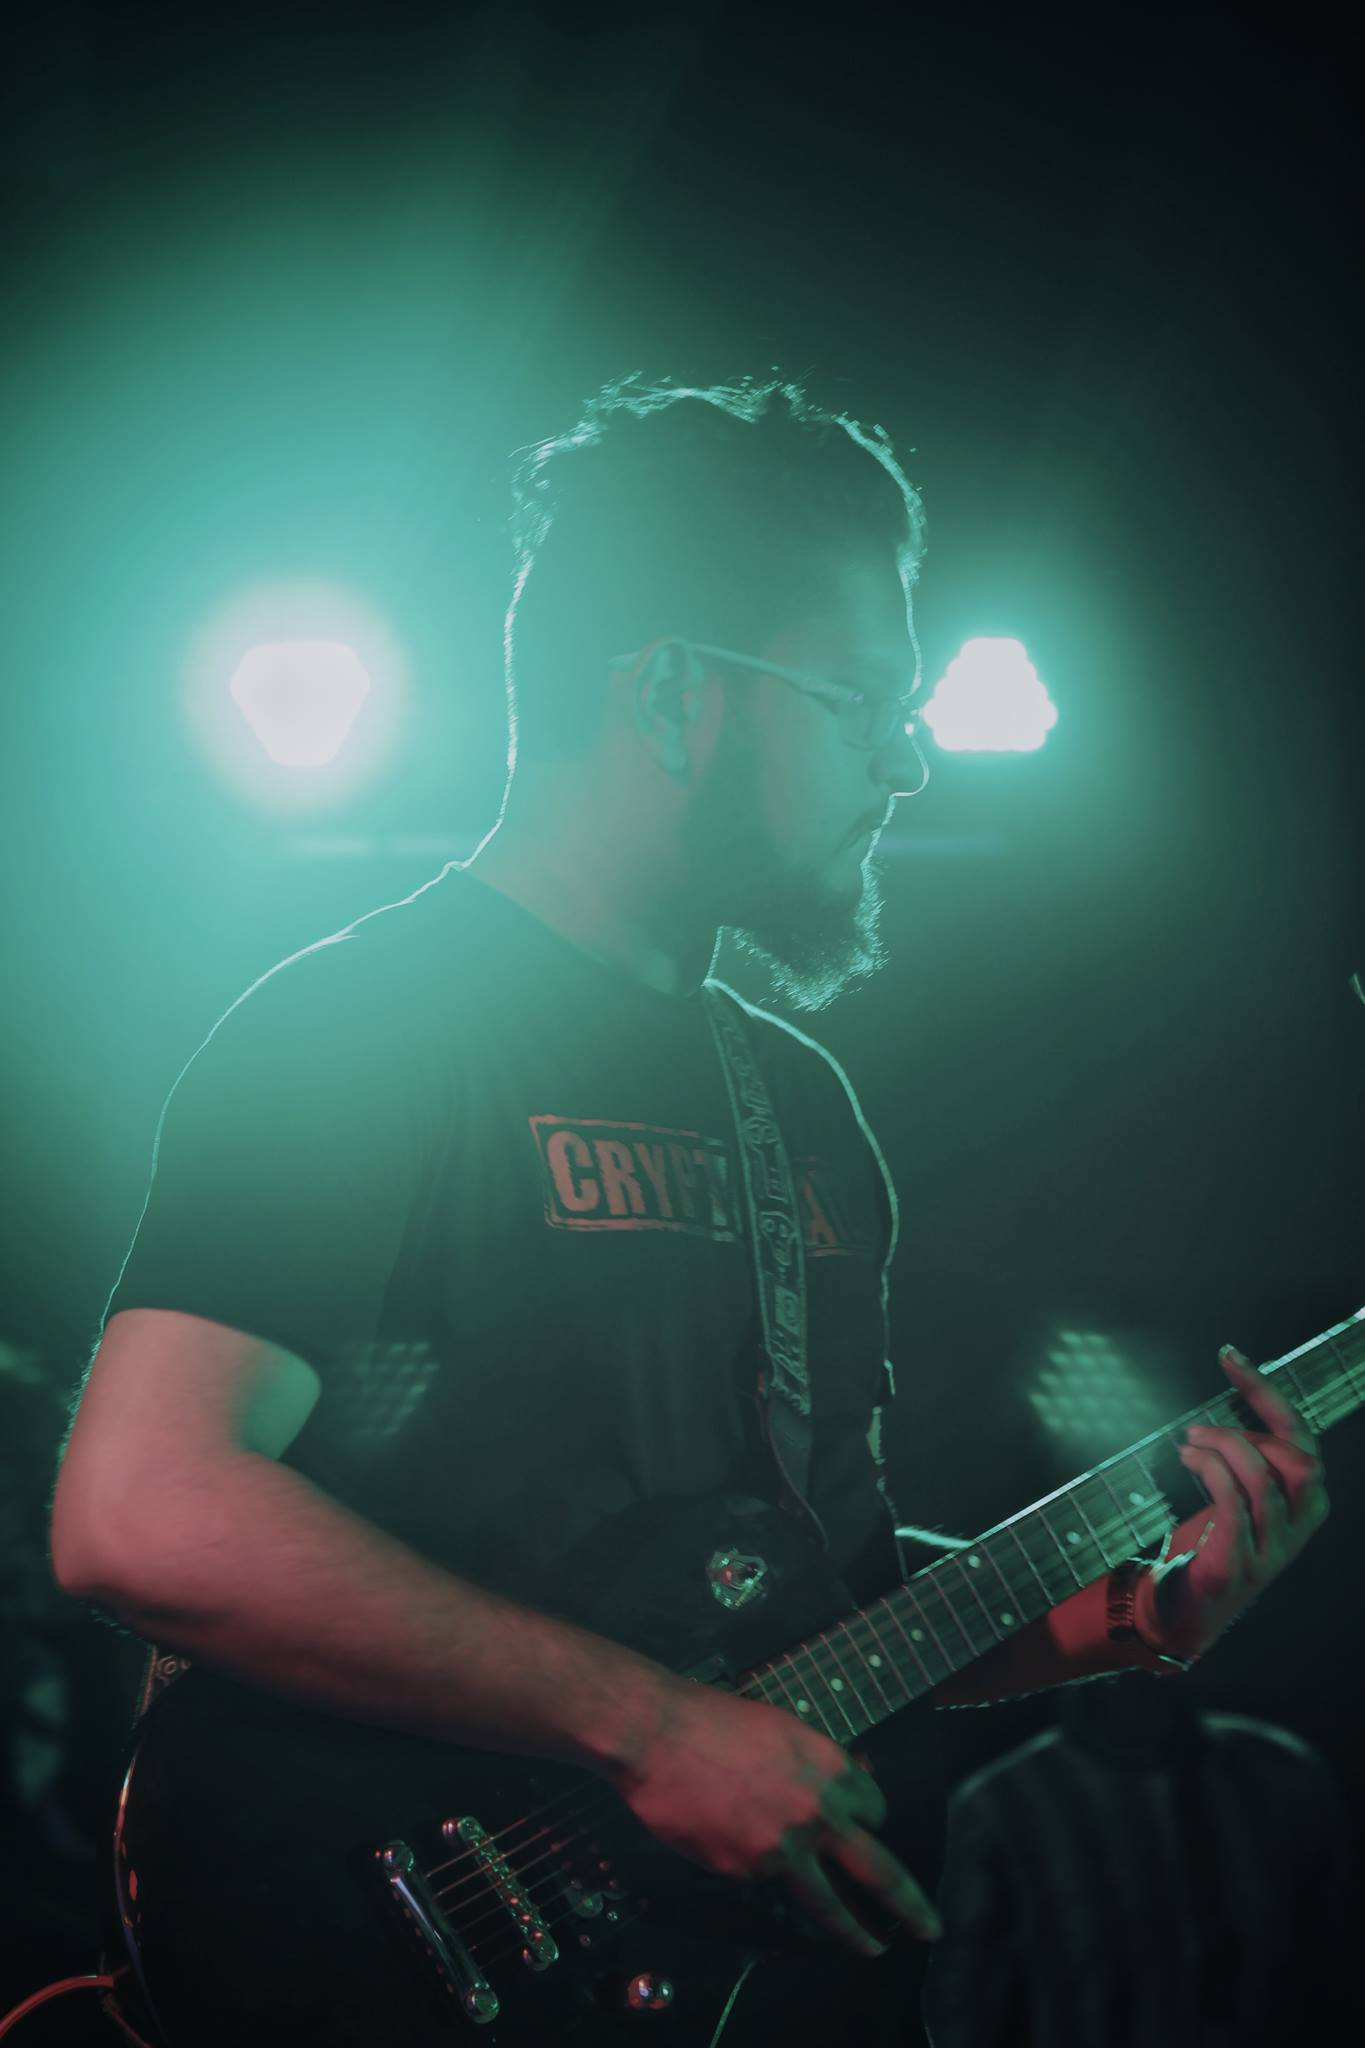
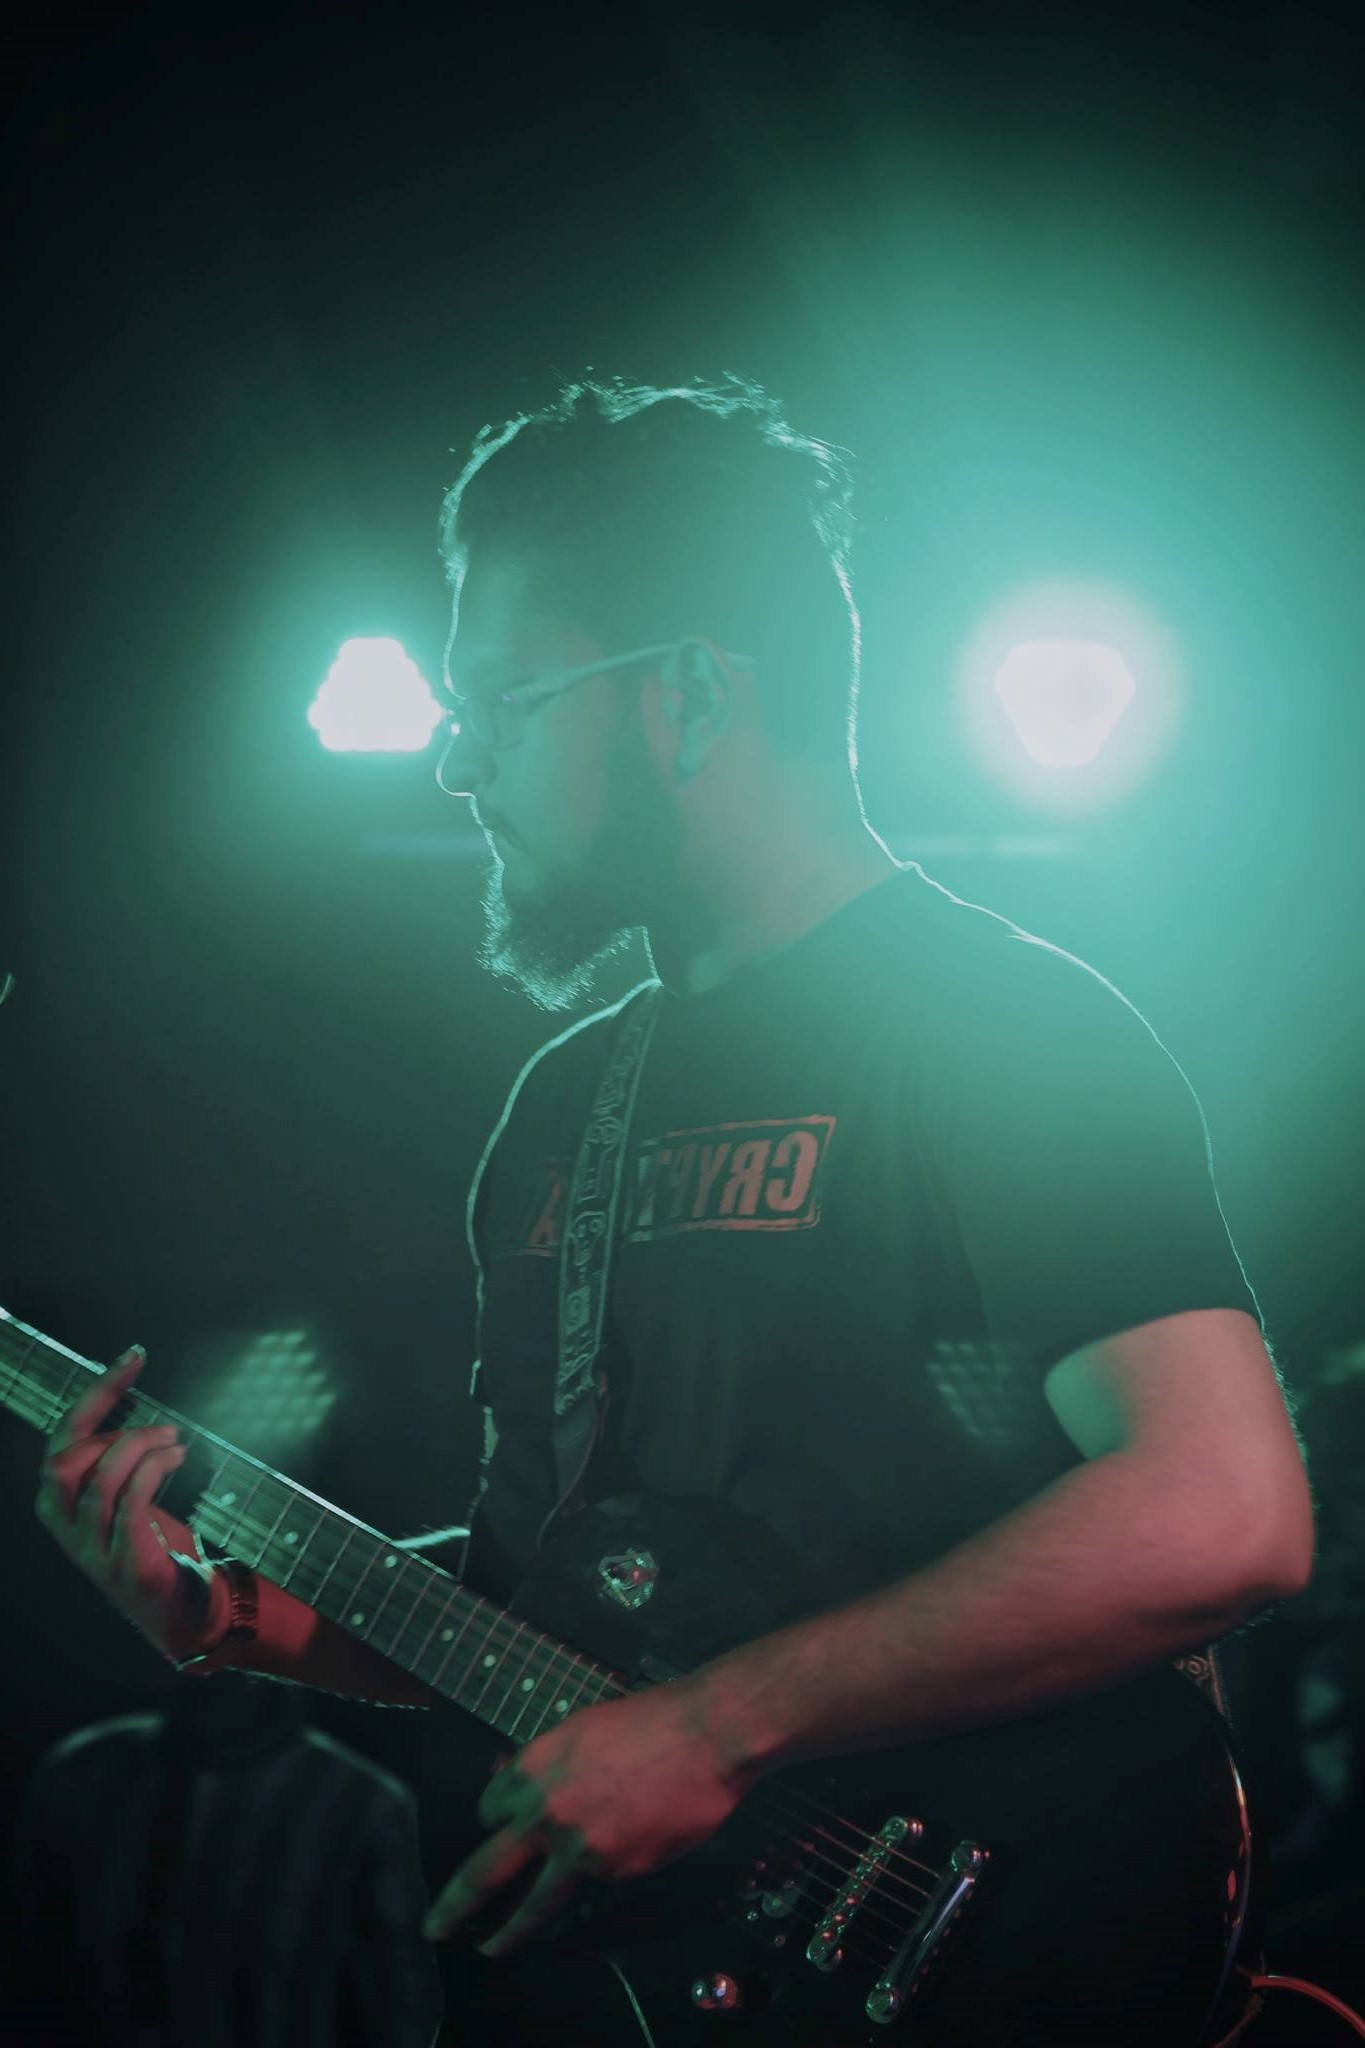
mod4

diff --git a/style.css b/style.css
@@ -21,8 +21,9 @@ body{
     background-color:rgb(12, 12, 12)
 }
 img{
-    height: 800px;
-    width:800px ;
+    height:900px;
+    width: 600px;
+    
 }
 section{
     display: flex;

diff --git a/index.html b/index.html
@@ -44,7 +44,7 @@
 
     <div class="div2">
 
-        <img src="bottle2.jpg" alt="rock">
+        <img src="up3.jpg" alt="rock">
 
     </div>
 
